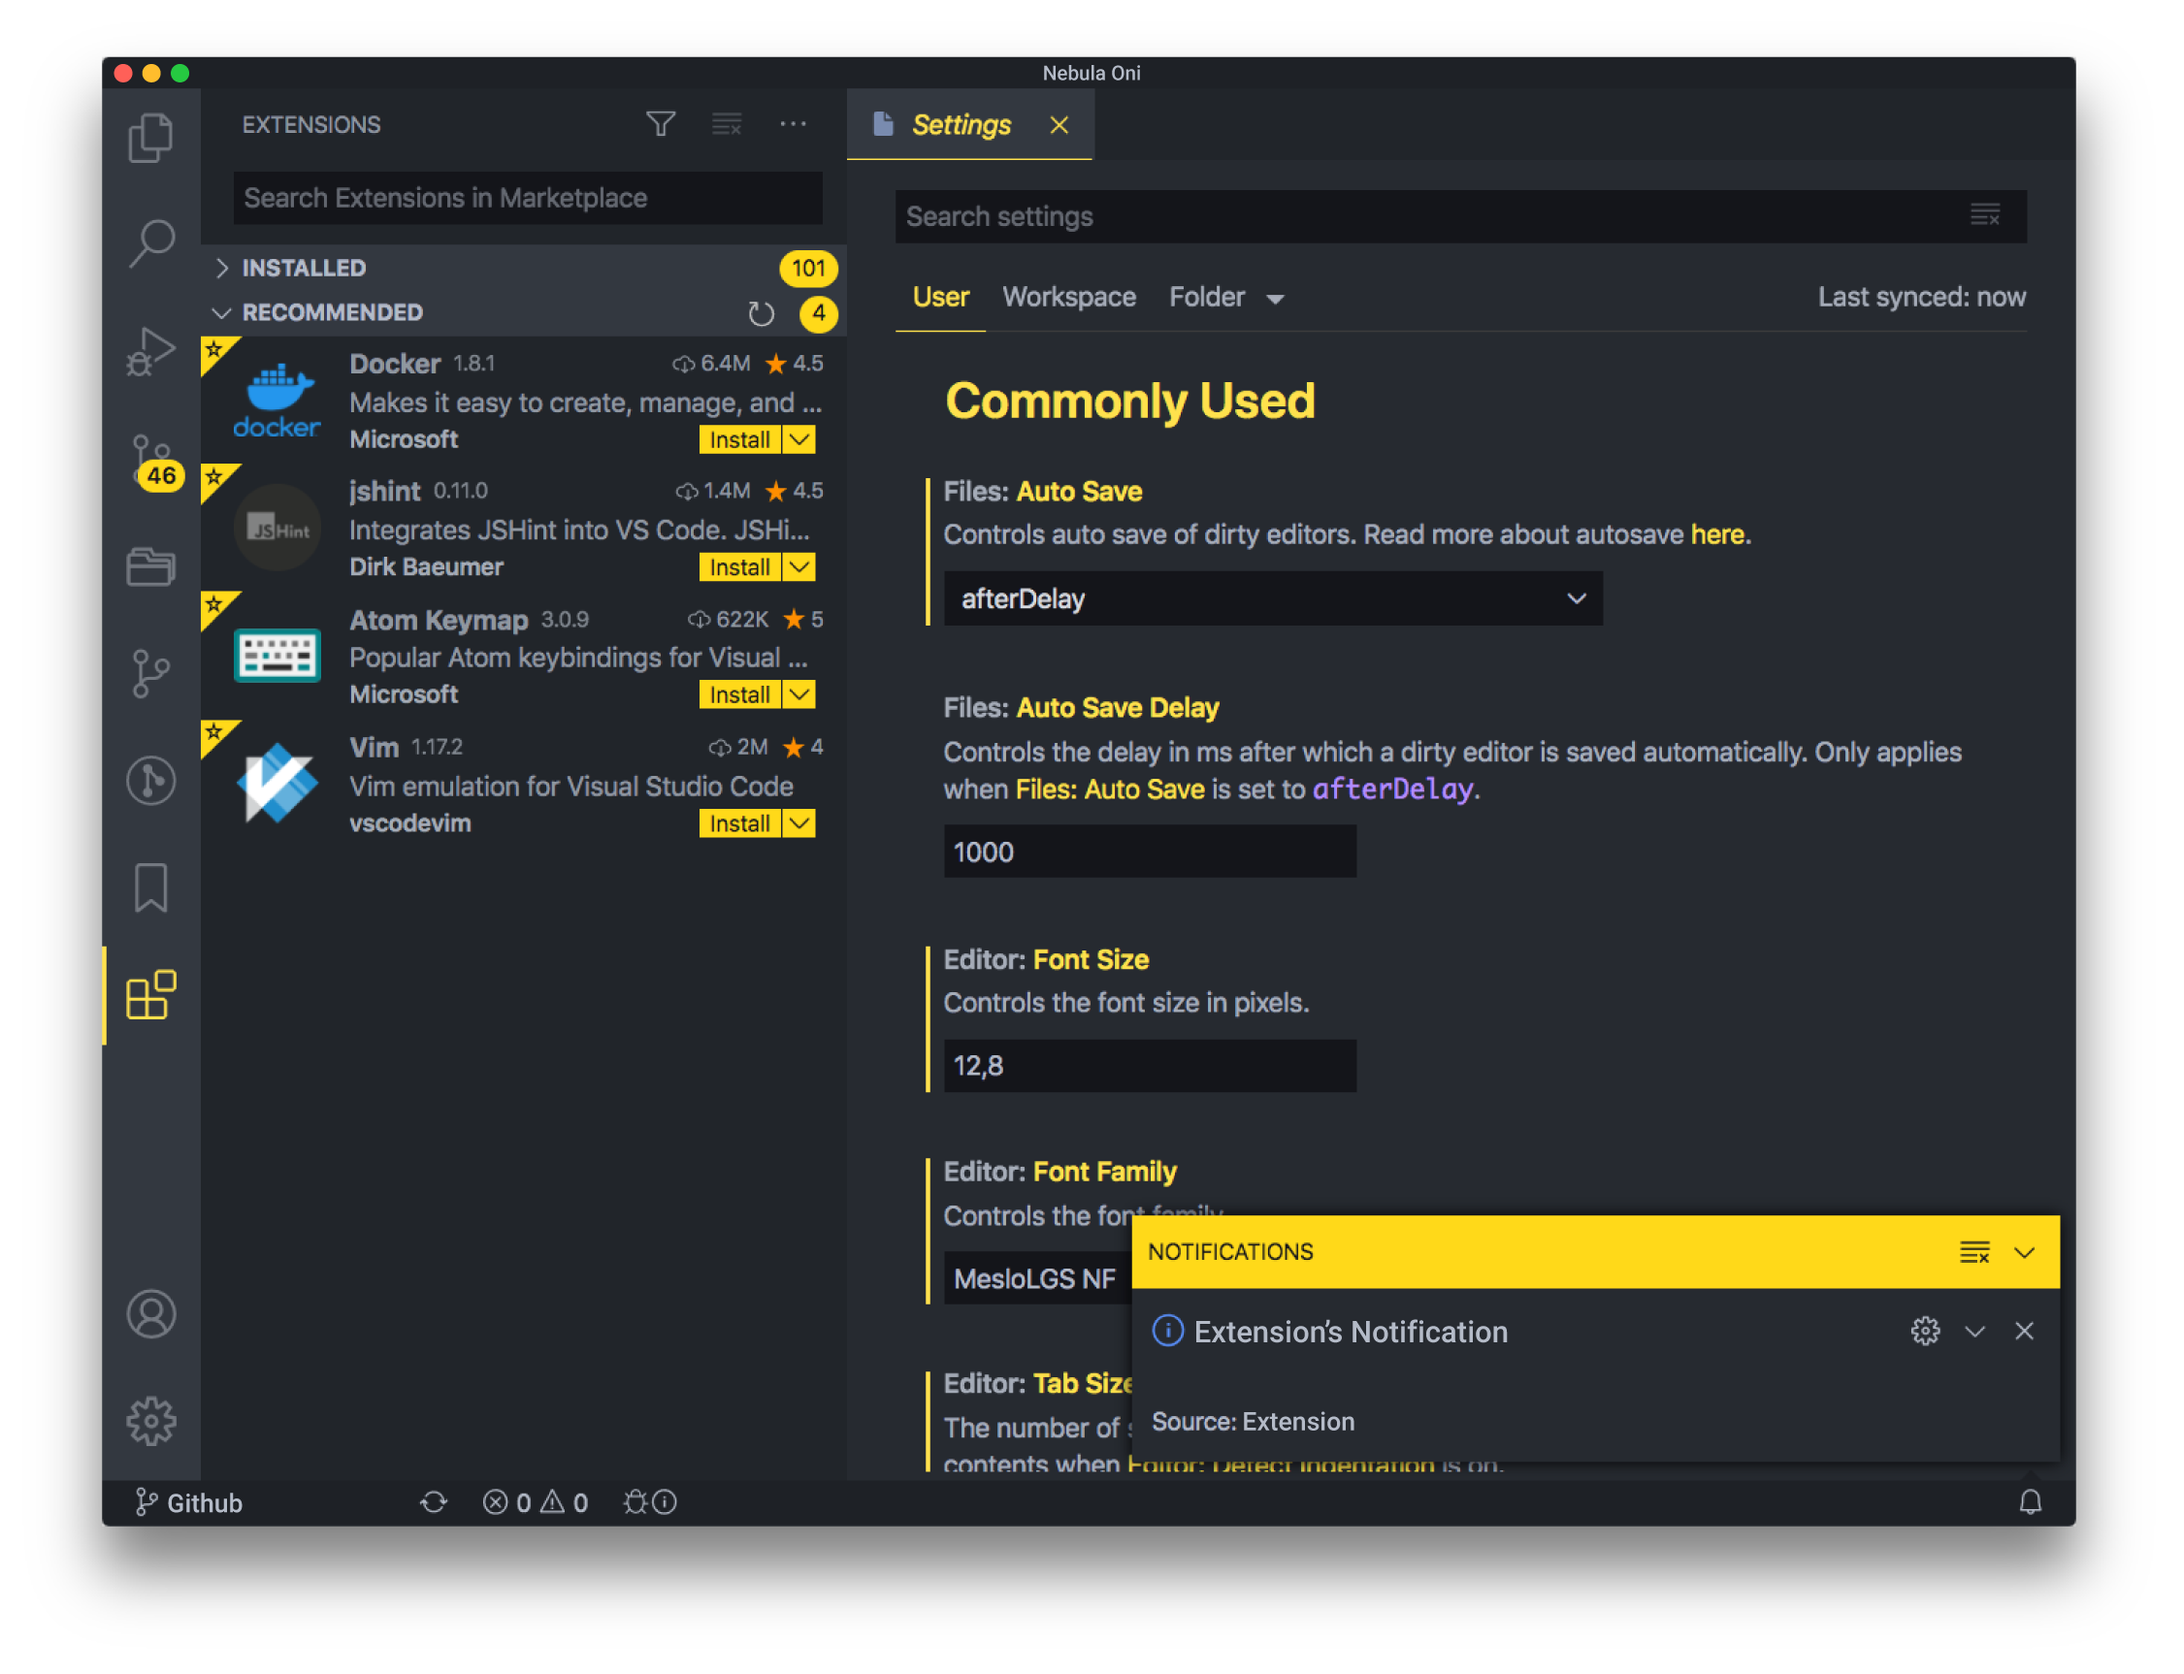
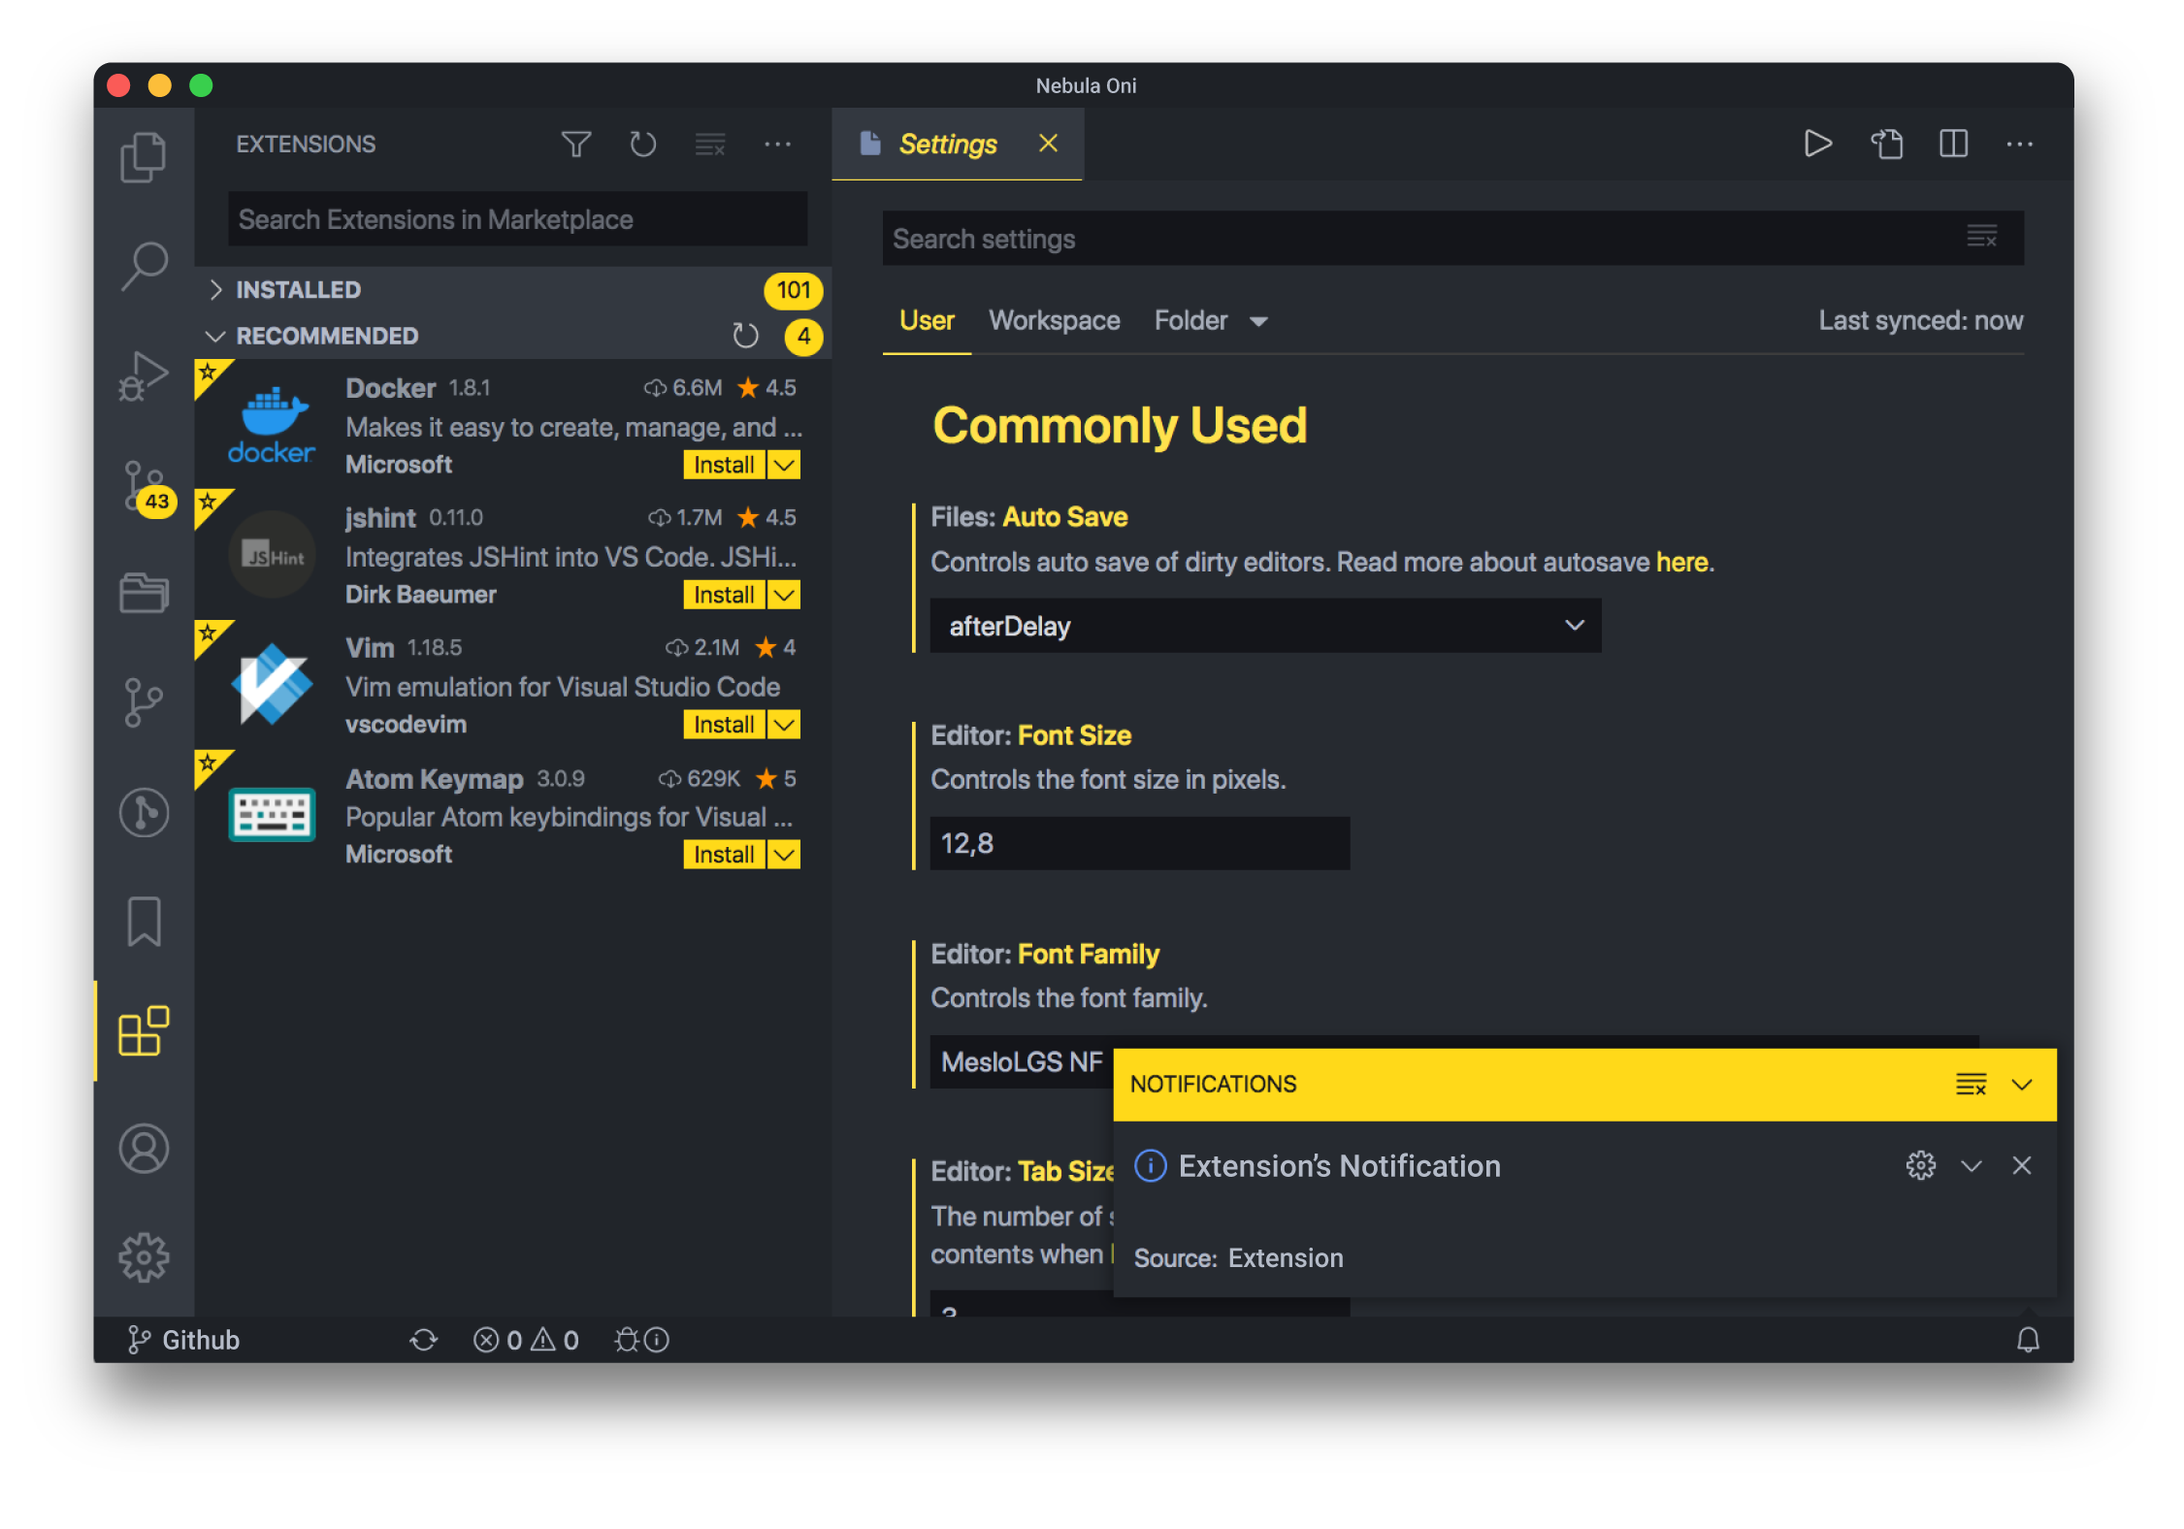
new images and oni-ui

Changed region(s): [[0.0311, 0.0311, 0.964, 0.9638], [0.8396, 0.1555, 0.9329, 0.2176]]

diff --git a/doc/ONI-UI.md b/doc/ONI-UI.md
@@ -6,6 +6,18 @@ There are a lot of small details and visual hints that can make your life a lot 
 
 I find something that can be improved, I will try it, test it, change it, tweak it until it feels right - or quite, because there is always something new.
 
+_<div align="left"> (Main Color: Bumblebee / Background: Grey) </div>_
+
+![Oni UI Menu](https://raw.githubusercontent.com/psudo-dev/nebula-oni-theme/main/doc/oni-ui/window_1.png)
+
+_<div align="left"> (Main Color: Peach / Background: Blue) </div>_
+
+![Oni UI Menu](https://raw.githubusercontent.com/psudo-dev/nebula-oni-theme/main/doc/oni-ui/window_2.png)
+
+_<div align="left"> (Main Color: Lime / Background: Purple) </div>_
+
+![Oni UI Menu](https://raw.githubusercontent.com/psudo-dev/nebula-oni-theme/main/doc/oni-ui/window_3.png)
+
 ### Table of Contents
 
 - [Main Colors](#main-colors)
